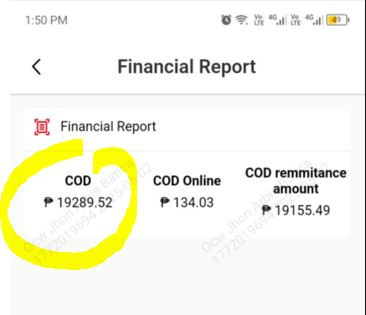
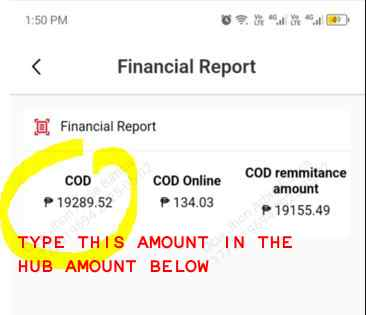
ss

diff --git a/assets/js/util.js b/assets/js/util.js
@@ -1525,7 +1525,7 @@ const util = {
             if(data[0] .found){
                 //////// === hide ko muna voice ha? paki-balik pag prod na -->util.speak(data[0].voice)
                 util.alertMsg(data[0].message,'success','loginPlaceHolder')
-                
+                //document.getElementById('loginBtn').classList.add('hide-me')
                 //addtocookie
                 util.setGroupCookie(data[0].id,data[0].region, data[0].fname, data[0].grp_id, data[0].email, data[0].voice, data[0].pic)/*=== SET GROUP COOKIE */
             

diff --git a/main.html b/main.html
@@ -956,6 +956,7 @@
                
                 <div class="col-lg-4 mb-3">
                     <div class="form-outline">
+                      <P><img src="./video/sprinter_actual_amount.JPG" width="300px"></P>
                         <label class="form-label mb-0" for="f_amount">Hub Amount</label>
                         <input value="1000" type="number" step="0.01" onblur="" id="f_amount" name="f_amount" placeholder="0.00" class="form-control equipmentx" min="20"  required />
                         <div class="invalid-feedback">
